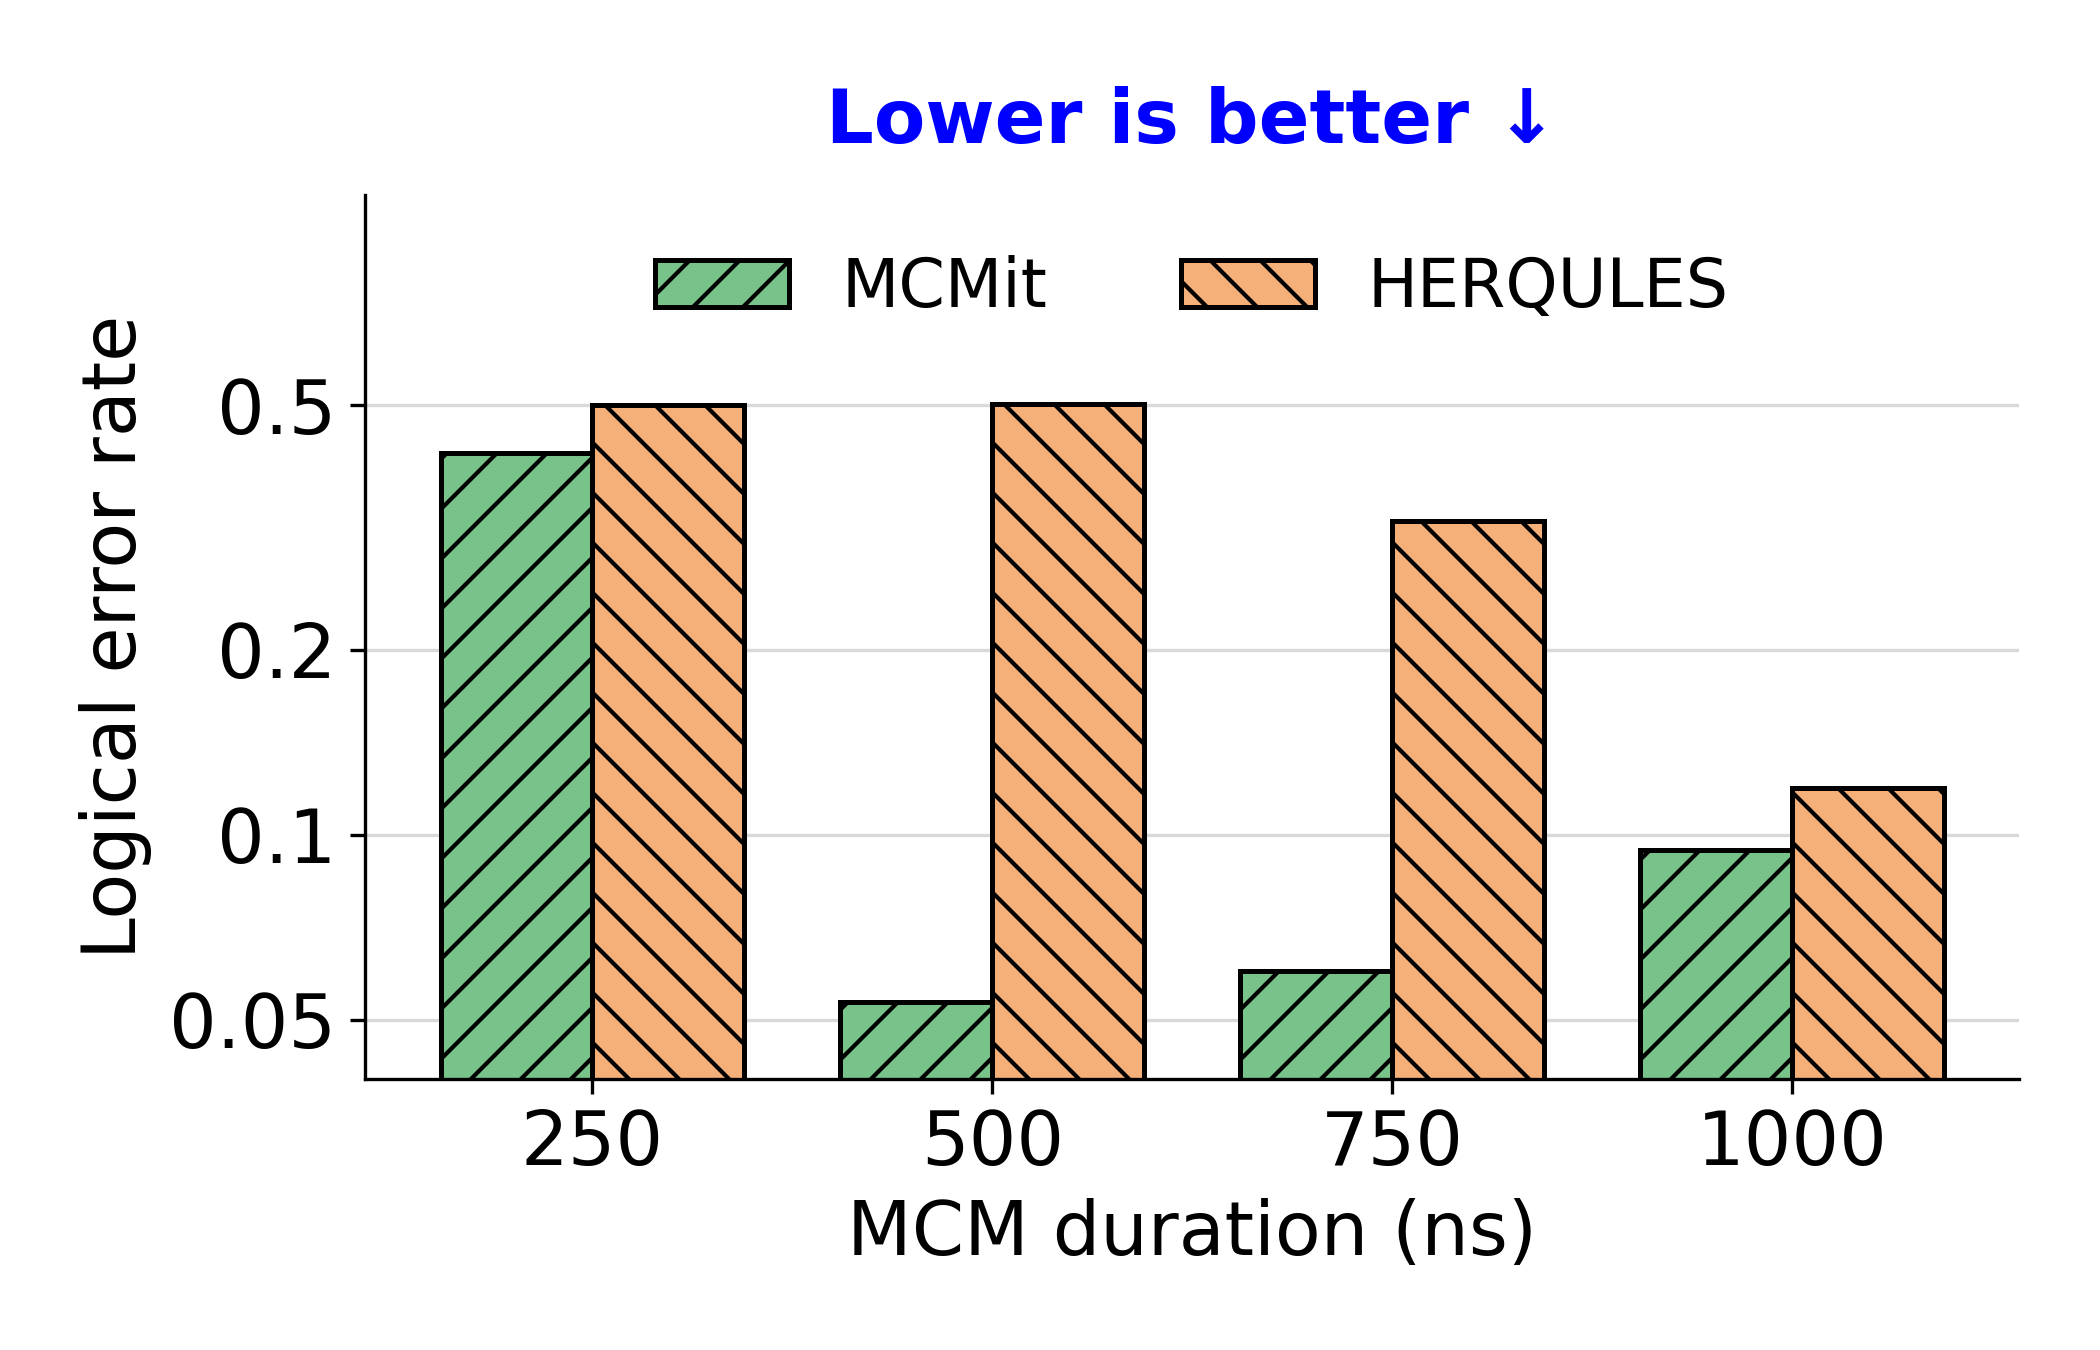
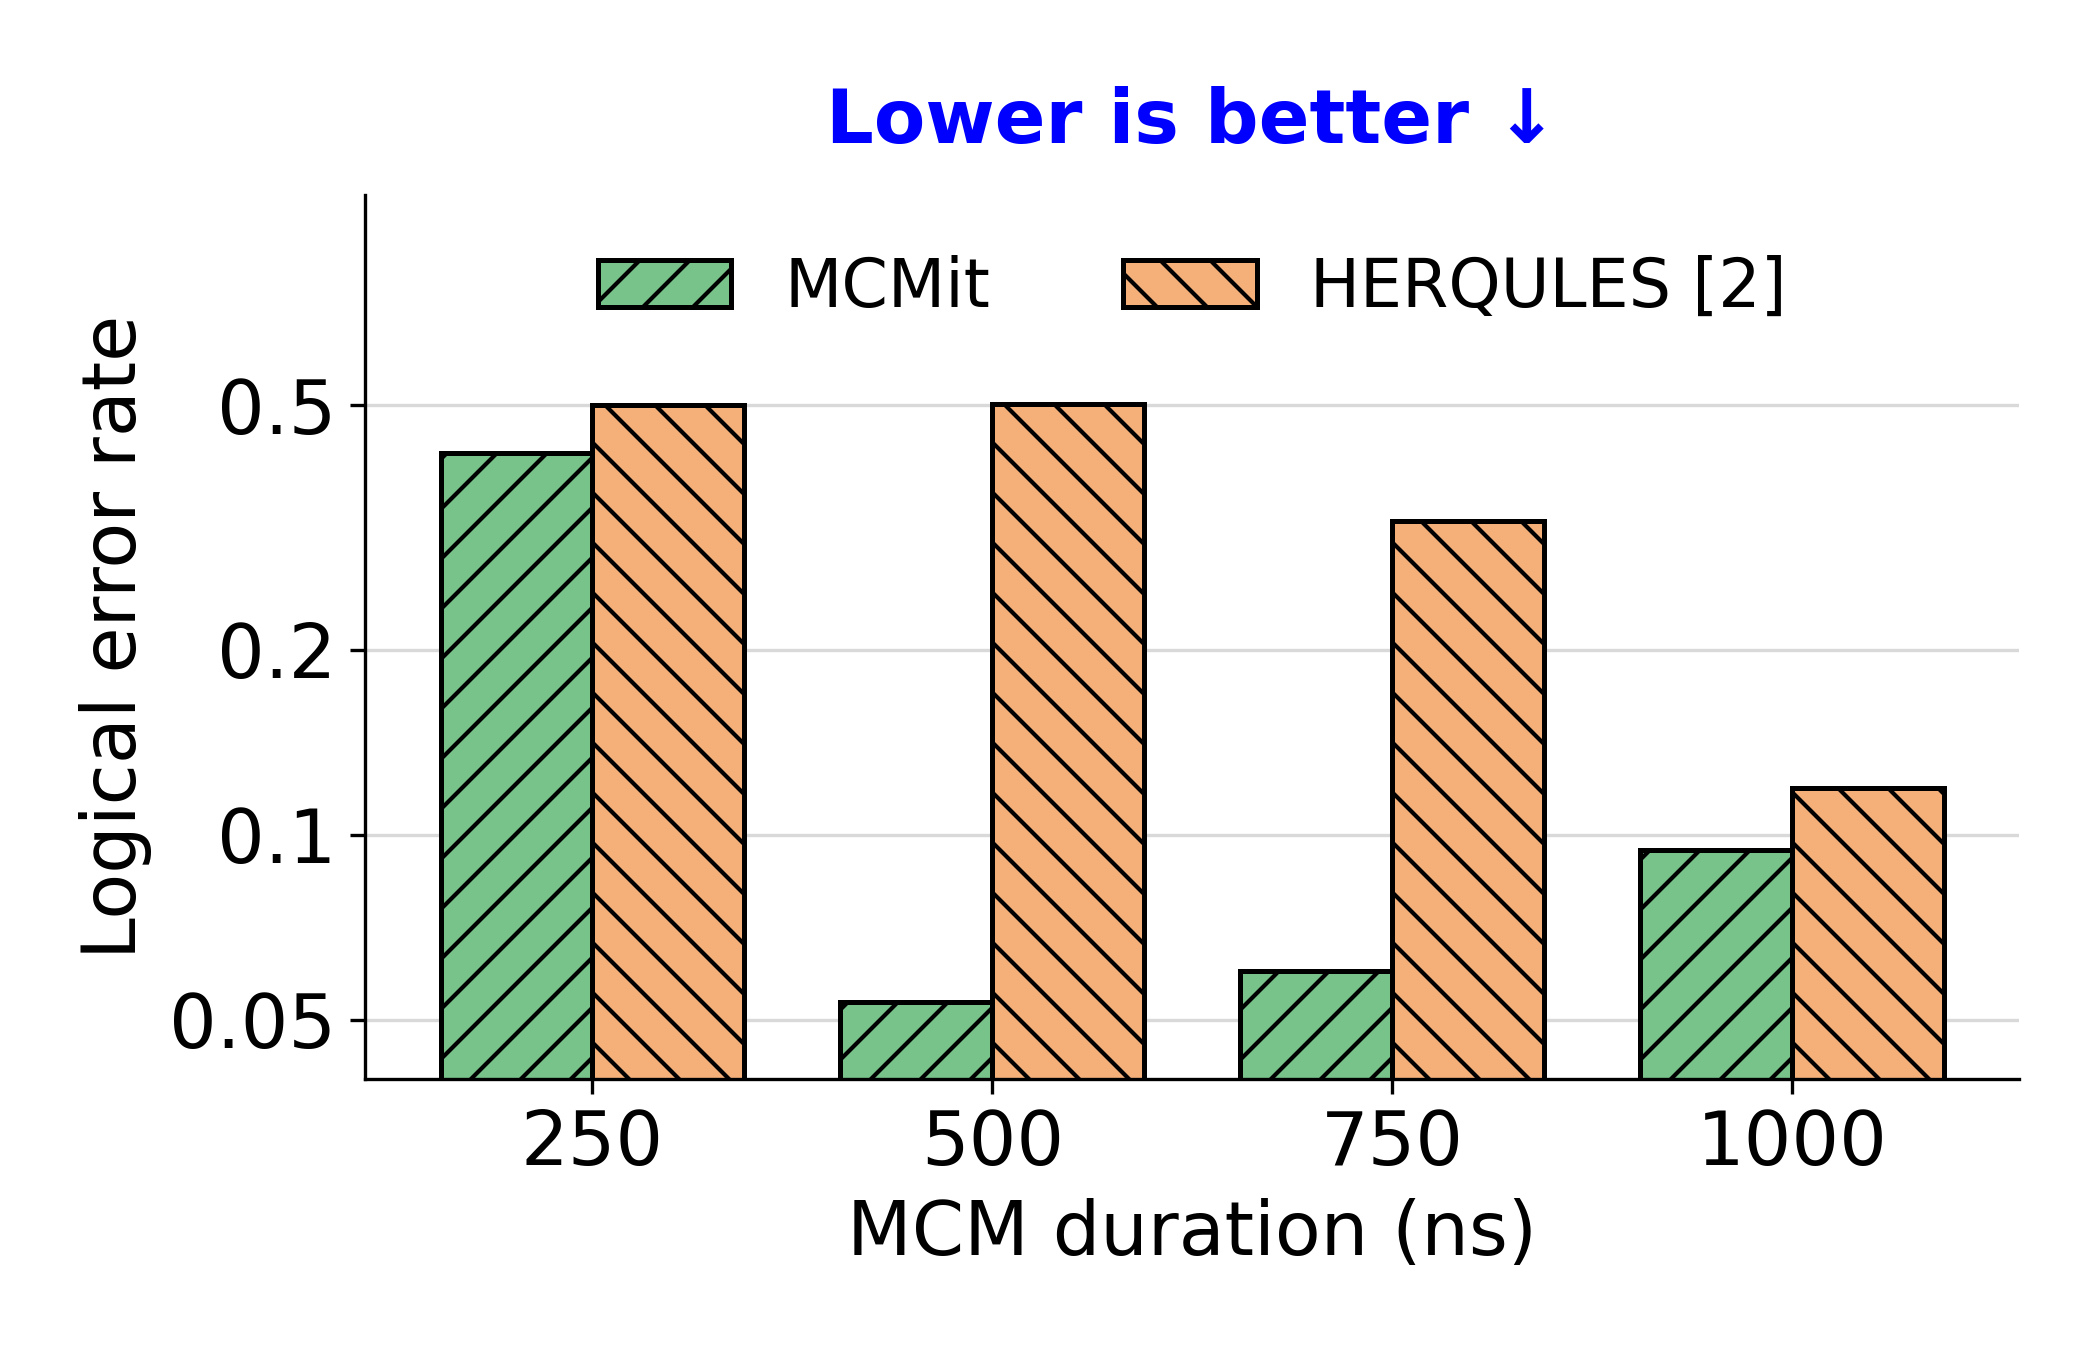
MCMit vs HERQULES slide plot: add [2] citation to HERQULES label

Changed region(s): [[0.5262, 0.1867, 0.8667, 0.2489], [0.3405, 0.1867, 0.4952, 0.2489], [0.2786, 0.1867, 0.3095, 0.2489]]

diff --git a/slides/plot_mcmit_vs_herqules_ibm_d11.py b/slides/plot_mcmit_vs_herqules_ibm_d11.py
@@ -16,7 +16,7 @@ OUT = Path(__file__).resolve().parent / "figures"
 DISTANCE = 11
 SERIES = [  # (label, csv, color, hatch)
     ("MCMit", "mcm_tradeoff_mcm_ibm.csv", "#77C38A", "//"),
-    ("HERQULES", "mcm_tradeoff_herqules_ibm.csv", "#F5B07A", "\\\\"),
+    ("HERQULES [2]", "mcm_tradeoff_herqules_ibm.csv", "#F5B07A", "\\\\"),
 ]
 BAR_WIDTH = 0.38
 
